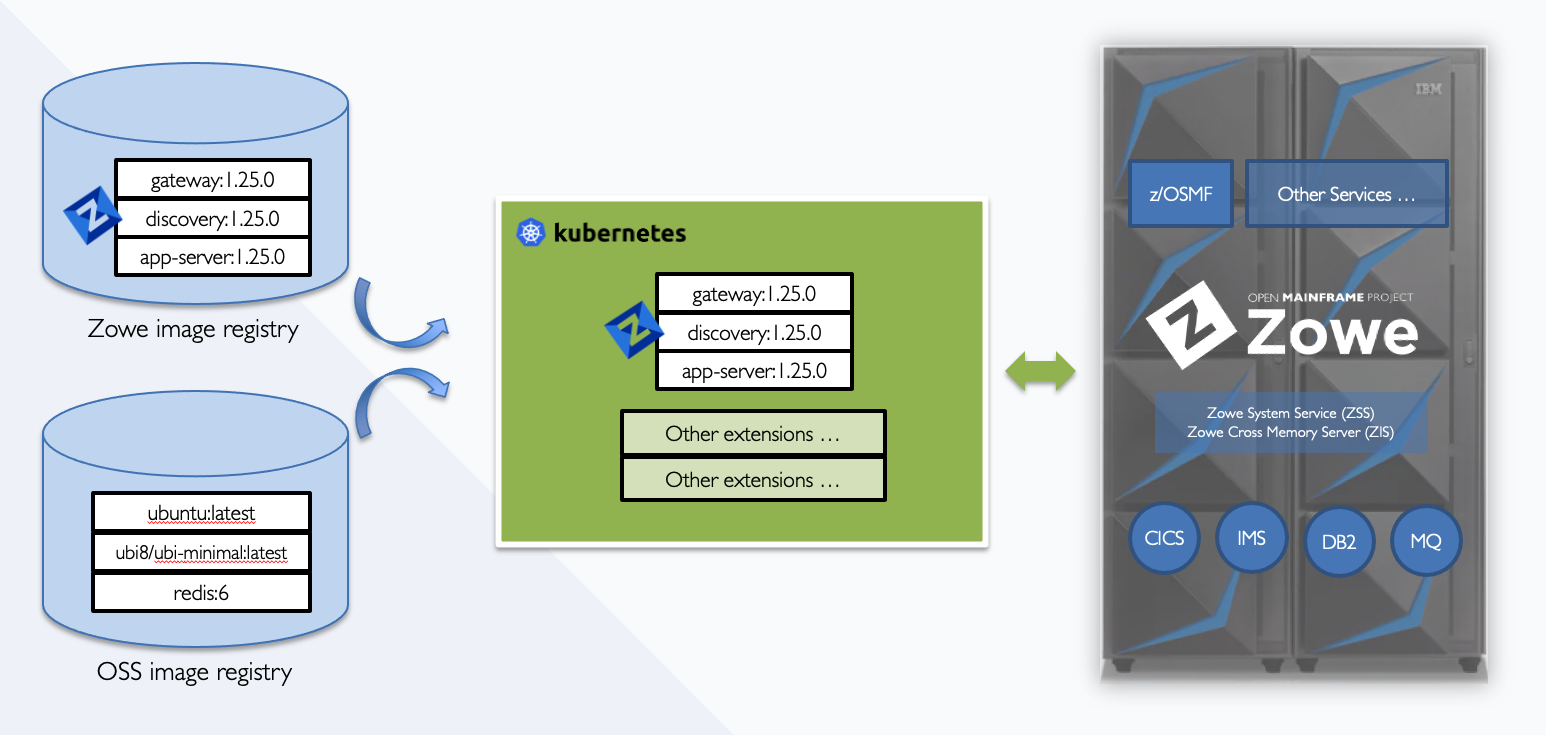
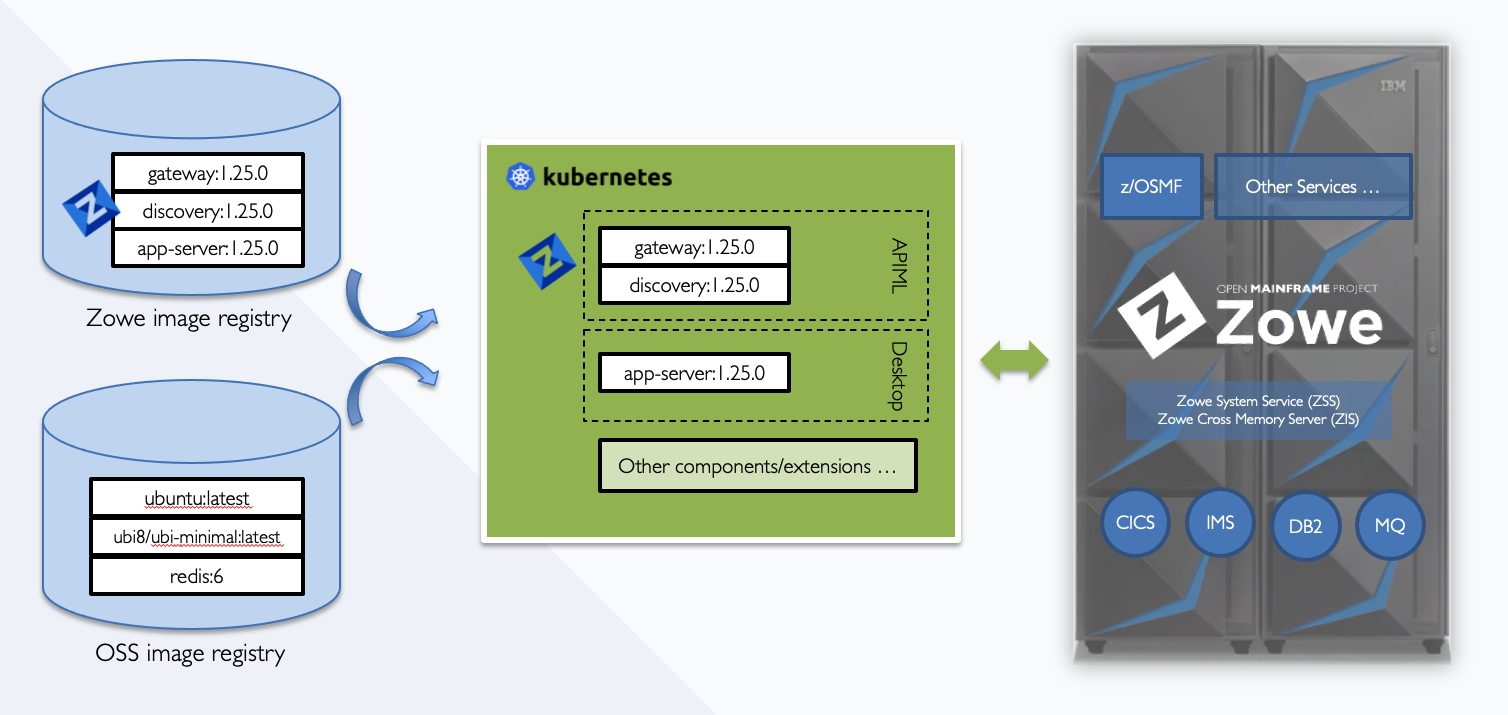
fixes based on suggestions and grammarly

diff --git a/containers/kubernetes/blog/zowe-k8s-lab.md b/containers/kubernetes/blog/zowe-k8s-lab.md
@@ -1,34 +1,34 @@
 # Tutorial to start Zowe in Kubernetes
 
-{Core} Can we run Zowe workloads off platform in a container orchestration platform like Kubernetes? With v1.25.0, the answer is yes. In this new downloadable, we provide all the necessary Kubernetes manifest files you need to stand up Zowe.
+{Core} Can we run Zowe workloads off-platform in a container orchestration platform like Kubernetes? With v1.25.0, the answer is yes. In this new downloadable, we provide all the necessary Kubernetes manifest files you need to stand up Zowe.
 
 ![zowe-kubernetes](images/zowe-k8s.png)
 
-This blog assumes you have basic knowledge of Zowe and Kubernetes, would like to take closer look on the technical details and even try out a lab exercise. If you are looking for general information about Zowe containerization, what and why, please check our other blog [Zowe Kubernetes Overview](zowe-k8s.md).
+This blog assumes you have basic knowledge of Zowe and Kubernetes, would like to take a closer look at the technical details, and even try out a lab exercise. If you are looking for general information about Zowe containerization, what and why, please check our other blog [Zowe Kubernetes Overview](zowe-k8s.md).
 
 ## Architecture view of Zowe Kubernetes deployment
 
-Comparing to deploy Zowe to z/OS system, as described in [Zowe architecture](https://docs.zowe.org/stable/getting-started/zowe-architecture), the following diagram depicts the difference in locations of Zowe components when deploying Zowe into Kubernetes cluster as opposed to running all components on a single z/OS system.
+Compared to deploying Zowe to z/OS system, as described in [Zowe architecture](https://docs.zowe.org/stable/getting-started/zowe-architecture), the following diagram depicts the difference in locations of Zowe components when deploying Zowe into Kubernetes cluster as opposed to running all components on a single z/OS system.
 
 ![zowe-architecture-k8s](images/zowe-architecture-k8s.png)
 
-- Zowe `ZSS` and Cross Memory (also known as `ZIS`) server are remaining on z/OS side to communicate with z/OS native functions. Besides that, you have choice to deploy all other components in Kubernetes.
+- Zowe System Services Server (aka `ZSS`) and Cross Memory Server (aka `ZIS`) are remaining on the z/OS side to communicate with z/OS native functions. Besides that, you have a choice to deploy all other components in Kubernetes.
 - You can deploy Zowe to Kubernetes on any platform like,
   * setup from bare metal,
   * run on [Linux on IBM Z mainframe](https://www.ibm.com/it-infrastructure/z/os/linux),
   * provision from popular cloud vendors,
   * or just want to try it out with [Docker Desktop](https://docs.docker.com/desktop/kubernetes/) or [Minikube](https://minikube.sigs.k8s.io/docs/start/).
-- All Zowe Kubernetes workloads are running on a dedicated namespace (`zowe` by default) to distinguish from other workloads in same Kubernetes cluster.
-- Zowe has it's own `ServiceAccount` to help on managing permissions.
-- Server components uses similar `instance.env` or `zowe.yaml` on z/OS, which are stored in `ConfigMap` and `Secret`, to configure and start.
-- Server components can be configured using same certificates used on z/OS components.
-- Zowe claims it's own `Persistent Volume` to share files across components.
-- Each server components are running in separated containers and can scale independently based on it's own resource consumption.
-- Components may register themselves to Discovery with their own `Pod` name within the cluster.
+- All Zowe Kubernetes workloads are running on a dedicated namespace (`zowe` by default) to distinguish from other workloads in the same Kubernetes cluster.
+- Zowe has its own `ServiceAccount` to help on managing permissions.
+- Server components use similar `instance.env` or `zowe.yaml` on z/OS, which are stored in `ConfigMap` and `Secret`, to configure and start.
+- Server components can be configured using the same certificates used on z/OS components.
+- Zowe claims its own `Persistent Volume` to share files across components.
+- Each server component is running in separated containers and can scale independently based on its own resource consumption.
+- Components may register themselves to APIML Discovery with their own `Pod` name within the cluster.
 - Zowe workloads use `zowe-launch-scripts` `initContainers` step to prepare required runtime directories.
 - Only necessary components ports are exposed outside of Kubernetes with `Service` (or in combination with `Ingress`, OpenShift `Route`).
 
-When deploying Zowe server components into container orchestration software like Kubernetes, we follows standard Kubernetes practices and the cluster can be monitored and managed with common Kubernetes administration methods.
+When deploying Zowe server components into container orchestration software like Kubernetes, we follow standard Kubernetes practices and the cluster can be monitored and managed with common Kubernetes administration methods.
 
 # Zowe Images
 
@@ -37,11 +37,11 @@ For each Zowe core component image, we provide 2x2 flavors to cover:
 - base image of latest Ubuntu and [Red Hat Universal Base Image](https://www.redhat.com/en/blog/introducing-red-hat-universal-base-image),
 - CPU architecture of `amd64` (for x86 based CPU) and `s390x` (for Linux on Z mainframe).
 
-Currently our images are shipped in `zowe-docker-release.jfrog.io` registry, and you can find all images we released from https://zowe.jfrog.io/ui/repos/tree/General/docker-release%2Fompzowe.
+Currently, our images are shipped in `zowe-docker-release.jfrog.io` registry, and you can find all images we released from https://zowe.jfrog.io/ui/repos/tree/General/docker-release%2Fompzowe.
 
 ![zowe-registry](images/zowe-registry.png)
 
-For each image we also release and update manifests to help you pick the right level of image based on your requirement. Typical image manifests we provide are:
+For each image, we also release and update manifests to help you pick the right level of image based on your requirement. Typical image manifests we provide are:
 
 - 1
 - 1-ubuntu
@@ -56,65 +56,65 @@ For each image we also release and update manifests to help you pick the right l
 - latest-ubuntu
 - latest-ubi
 
-Foe example, if you would like to automatically pick the most recent changes from v1 releases, you can use images like `zowe-docker-release.jfrog.io/ompzowe/gateway:1-ubuntu`.
+For example, if you would like to automatically pick the most recent changes from v1 releases, you can use images like `zowe-docker-release.jfrog.io/ompzowe/gateway:1-ubuntu`.
 
-These manifests covers both `amd64` and `s390x` CPU architecture, so it will work no matter you are running it in distributed environment (typically x86 based CPU), or running on Linux on Z mainframe.
+These manifests covers both `amd64` and `s390x` CPU architecture, so it will work no matter you are running it in a distributed environment (typically x86 based CPU) or running on Linux on a Z mainframe.
 
 ## In-depth details of Zowe Kubernetes deployment
 
 You can deploy Zowe to Kubernetes v1.19+ or compatible OpenShift v4.6+.
 
-Depends on you Kubernetes or OpenShift setup, some of the configurations you may need to customize for your environment, especially for Persistent Volume, Networking and your domain name to access Kubernetes and z/OS.
+Depending on your Kubernetes or OpenShift setup, some of the configurations you may need to customize for your environment, especially for Persistent Volume, Networking, and your domain name to access Kubernetes and z/OS.
 
-Here are list of example Kubernetes manifests we provide you can customize based upon.
+Here is a list of example Kubernetes manifests we provide you can customize based upon.
 
-- `zowe` `Namespace` is a good start point to isolate your workload from others in same cluster.
-- A `ServiceAccount` `zowe-sa` is defined to help you customize permission setup.
-- Examples of defining `zowe-workspace-pvc` `PersistentVolumeClaim`. This persistent volume helps Zowe to share data between components. For example, one Desktop plugin may need to share it's runtime to AppServer, or a static registered component may need to share it's registration file to Discovery service. To define a `PersistentVolumeClaim`, you need to find out appropriate `StorageClass` you can use across all possible Kubernetes nodes and support `ReadWriteMany` access mode.
+- `zowe` `Namespace` is a good start point to isolate your workload from others in the same cluster.
+- A `ServiceAccount` `zowe-sa` is defined to help you customize the permission setup.
+- Examples of defining `zowe-workspace-pvc` `PersistentVolumeClaim`. This persistent volume helps Zowe to share data between components. For example, one Desktop plugin may need to share its runtime to AppServer, or a static registered component may need to share its registration file to Discovery service. To define a `PersistentVolumeClaim`, you need to find out the appropriate `StorageClass` you can use across all possible Kubernetes nodes and support `ReadWriteMany` access mode.
 - Example of `zowe-config` (and optional `zowe-certificates-cm`) `ConfigMap` and `zowe-certificates-secret` `Secret`. These configurations are similar to the `instance.env` or `zowe.yaml` you are using to start Zowe on z/OS. Zowe also ships a utility tools `<instance>/bin/utils/convert-fork8s.sh` to help you migrate the configurations and certificates from z/OS to Kubernetes.
-- Example definitions of Zowe API Catalog, Discovery and Gateway `Service`-s. `gateway-service` is the main service must be exposed outside of Kubernetes and serves as entrypoint of Zowe. We also provide sample `Ingress` which may be needed in some setup. This networking definitions are very attached to your Kubernetes flavor like how your load balancer, Ingress controller are setup, what are the domain and port you would like to use, etc.
-- One `discovery` `StatefulSet` and several `Deployments` matches all other Zowe core components.
+- Example definitions of Zowe APIML API Catalog, Discovery and Gateway `Service`-s. `gateway-service` is the main service that must be exposed outside of Kubernetes and serves as entry point of Zowe. We also provide sample `Ingress` which may be needed in some setup. These networking definitions are very attached to your Kubernetes flavor like how your load balancer, Ingress controller is set up, what are the domain and port you would like to use, etc.
+- One `discovery` `StatefulSet` and several `Deployments` match all other Zowe core components.
 - A `cleanup-static-definitions` `CronJob` is predefined to help Zowe cleanup abandoned static definitions.
-- Example `PodDisruptionBudget`s can help you maintain availability of services.
+- Example `PodDisruptionBudget`s can help you maintain the availability of services.
 - Example `HorizontalPodAutoscaler`s can help you scale Zowe based on CPU consumption of your workload.
 
-We try to decouple Zowe runtime scripts from component runtime code so they can build and release independently. Zowe component, as well as extension images have no requirement to contain Zowe runtime scripts. The Zowe context will be prepared when we start the component inside Zowe cluster.
+We try to decouple Zowe runtime scripts from component runtime code so they can build and release independently. Zowe components, as well as extension images, have no requirement to contain Zowe runtime scripts. The Zowe context will be prepared when we start the component inside a Zowe cluster.
 
 ![zowe-component-runtime](images/zowe-component-runtime.png)
 
-This picture illustrates directory changes when a component container is running in Zowe cluster.
+This picture illustrates directory changes when a component container is running in a Zowe cluster.
 
 ## Security Consideration
 
-Security is always top priority of running Zowe on any platform. Zowe follows Kubernetes common best practices and also Kubernetes Hardening Guidance from National Security Agency and Cybersecurity and Infrastructure Security Agency.
+Security is always a top priority of running Zowe on any platform. Zowe follows Kubernetes common best practices and also Kubernetes Hardening Guidance from National Security Agency and Cybersecurity and Infrastructure Security Agency.
 
 - Zowe conformant images must define `zowe` user and group other than using `root` user.
-- Zowe prohibits to start component container with root user.
-- Zowe example Deployments has predefined `securityContext` to limit runtime user, group and file system group to `zowe`.
-- Zowe launch script is started as PID 1 and will handle SIGTERM signal properly by propagating to all child processes.
-- By default Zowe example Deployments also enabled `readOnlyRootFilesystem` `securityContext` to protect root file system from overwriting.
-- Zowe core components are regular scanned with security tools.
+- Zowe prohibits starting component container with root user.
+- Zowe example Deployments has predefined `securityContext` to limit runtime user, group, and file system group to `zowe`.
+- Zowe launch script is started as PID 1 and will handle the SIGTERM signal properly by propagating to all child processes.
+- By default Zowe example Deployments also enabled `readOnlyRootFilesystem` `securityContext` to protect the root file system from overwriting.
+- Zowe core components are regularly scanned with security tools.
 - Zowe workloads are isolated with Namespace and ServiceAccount.
 - Zowe configurations and certificates can be securely stored in `Secret`, or potentially Vault to protect from unexpected access.
-- You can still enable strict `VERIFY_CERTIFICATES` option to achieve best security like running Zowe on z/OS.
+- You can still enable the strict `VERIFY_CERTIFICATES` option to achieve the best security like running Zowe on z/OS.
 
 ## Exercise deployment to Google Cloud
 
-With above knowledge, let's try to deploy Zowe into Google Cloud Kubernetes Engine. Hopefully after this section, you may have better understanding how Zowe can be deployed and what are necessary customization may be required.
+With the above knowledge, let's try to deploy Zowe into Google Cloud Kubernetes Engine. Hopefully, after this section, you may have a better understanding of how Zowe can be deployed and what are necessary customization may be required.
 
-You will need a Google Cloud account, proper billing setup, Google Cloud CLI and `kubectl` installed on your local computer. This step may cost you around $1 or $2 depends on how long you let your cluster runs.
+You will need a Google Cloud account, proper billing setup, Google Cloud CLI, and `kubectl` installed on your local computer. This step may cost you around $1 or $2 depends on how long you let your cluster runs.
 
 1. Visit https://console.cloud.google.com/ and create your own project.
 
-2. Choose Kubernetes Engine - Clusters from GCP menus. If you never use this feature before, GCP may ask you to enable the feature before continue.
+2. Choose Kubernetes Engine - Clusters from GCP menus. If you have never used this feature before, GCP may ask you to enable the feature before continuing.
 
 3. Click on "Create" from the interface. ![gcp-create-k8s](images/gcp-create-k8s.png)
 
 4. Select either "GKE Standard" or "GKE Autopilot". I will choose "GKE Standard" for this demo.
 
-5. Provide a name for your cluster, customize zone close to you, then click on "CREATE" button. Then let's wait for your cluster is ready. This may usually take 2-4 minutes.
+5. Provide a name for your cluster, customize a zone close to you, then click on "CREATE" button. Then let's wait for your cluster to be ready. This may usually take 2-4 minutes.
 
-6. Select the new cluster you just created, click on "CONNECT" button. This interface provide commands you need to prepare Kubernetes config context on your local computer. ![gcp-connect](images/gcp-connect.png). Copy the command and run on your local computer Terminal.
+6. Select the new cluster you just created, click on "CONNECT" button. This interface provides commands you need to prepare Kubernetes config context on your local computer. ![gcp-connect](images/gcp-connect.png). Copy the command and run it on your local computer Terminal.
 
 7. Now we can start to follow Zowe documentation to deploy Zowe. First, let's create Namespace and ServiceAccount:
   ```
@@ -125,7 +125,7 @@ You will need a Google Cloud account, proper billing setup, Google Cloud CLI and
 
 8. The default storage class created by GKE doesn't support `ReadWriteMany` access mode. There are several ways to prepare your persistent volume for Zowe, here we will proceed with `Filestore`. Check this guidance https://cloud.google.com/filestore/docs/accessing-fileshares for more details.
 
-  - 8a). Visit https://console.cloud.google.com/filestore/instances to create an instance. In this example, I will call the `Instance ID` as `zowe-workspace-filestore`, and `File share name` as `zowe_workspace`. All other options I choose default, but customized to the zone I picked for my cluster. Click on "CREATE" and wait for your Filestore to be ready. This may usually take several minutes.
+  - 8a). Visit https://console.cloud.google.com/filestore/instances to create an instance. In this example, I will call the `Instance ID` as `zowe-workspace-filestore`, and `File share name` as `zowe_workspace`. All other options I choose to default, but customized to the zone I picked for my cluster. Click on "CREATE" and wait for your Filestore to be ready. This may usually take several minutes.
 
   - 8b). Check your newly created Filestore instance, pay attention to the information showing in this section "NFS mount point":
 
@@ -133,7 +133,7 @@ You will need a Google Cloud account, proper billing setup, Google Cloud CLI and
   10.34.56.78:/zowe_workspace
   ```
 
-  The IP and share name will be needed in next step.
+  The IP and share name will be needed in the next step.
 
   - 8c). Prepare this YAML file and save as `samples/google-cloud/workspace-pvc.yaml`.
 
@@ -189,7 +189,7 @@ You will need a Google Cloud account, proper billing setup, Google Cloud CLI and
   zowe-workspace-pvc   Bound    zowe-workspace-pv   10G        RWX                           3m4s
   ```
 
-  If you see `STATUS` is `Bound`, you can move to next step.
+  If you see `STATUS` is `Bound`, you can move to the next step.
 
 9. Define Zowe services by running this command. We choose `LoadBalancer` service in this demo:
 
@@ -199,9 +199,9 @@ You will need a Google Cloud account, proper billing setup, Google Cloud CLI and
   service/gateway-service created
   ```
 
-  From GKE console, check `Services & Ingress` and wait for all services status are OK and Endpoints are available like this ![gcp-services](images/gcp-services.png).
+  From the GKE console, check `Services & Ingress` and wait for all services status are OK and Endpoints are available like this ![gcp-services](images/gcp-services.png).
 
-10. Prepare ConfigMaps and Secret. Now login to your z/OS system, switch to the instance directory where you started Zowe ZSS server, and run this command:
+10. Prepare ConfigMaps and Secret. Now login to your z/OS system, switch to the instance directory where you started the Zowe ZSS server, and run this command:
 
   ```
   cd <instance-dir>
@@ -210,7 +210,7 @@ You will need a Google Cloud account, proper billing setup, Google Cloud CLI and
 
   Please note the IP showing above is the `gateway-service` external IP showing in step 9.
 
-  Follow the instructions showing on the screen and copy all the content of ConfigMaps and Secret and save to your local computer. Now apply the configs to your cluster by running:
+  Follow the instructions shown on the screen and copy all the content of ConfigMaps and Secret and save it to your local computer. Now apply the configs to your cluster by running:
 
   ```
   $ kubectl apply -f my-configs.yaml 
@@ -236,17 +236,17 @@ You will need a Google Cloud account, proper billing setup, Google Cloud CLI and
   deployment.apps/jobs-api created
   ```
 
-  Check `Workloads` menu from GKE console, wait until all workloads status are OK. This may take about 3-5 minutes. ![gcp-workloads](images/gcp-workloads.png).
+  Check `Workloads` menu from the GKE console, wait until all workloads' statuses are OK. This may take about 3-5 minutes. ![gcp-workloads](images/gcp-workloads.png).
 
-12. Congratulations, now you can access your Zowe instance running in the Kubernetes by accessing the `gateway-service` external IP. In my case, it's https://35.192.15.148:7554/. Once all services are ready, you should see 3 green check marks.
+12. Congratulations, now you can access your Zowe instance running in the Kubernetes by accessing the `gateway-service` external IP. In my case, it's https://35.192.15.148:7554/. Once all services are ready, you should see 3 green checkmarks.
 
 13. You can use your common Kubernetes operations practice. For example, examine logs from Zowe containers ![gcp-logging](images/gcp-logging.png).
 
-14. Once you done your testing, you can delete the cluster you created, as well as the Filestore instance.
+14. Once you have done your testing, you can delete the cluster you created, as well as the Filestore instance.
 
 ## Conclusion
 
-If you follow this introduction and successfully deployed your Zowe workload to your Kubernetes, now it's time to explorer the functions provided by Zowe and high availability, high scalability, ease of maintenance inherited from Kubernetes.
+If you follow this introduction and successfully deployed your Zowe workload to your Kubernetes, now it's time to explorer the functions provided by Zowe and the high availability, high scalability, ease of maintenance inherited from Kubernetes.
 
 ---
 

diff --git a/containers/kubernetes/blog/zowe-k8s.md b/containers/kubernetes/blog/zowe-k8s.md
@@ -1,6 +1,6 @@
 # Running Zowe in Kubernetes
 
-{Core} Can we run Zowe workloads off platform in a container orchestration platform like Kubernetes? With v1.25.0, the answer is yes. In this new downloadable, we provide all the necessary Kubernetes manifest files you need to stand up Zowe.
+{Core} Can we run Zowe workloads off-platform in a container orchestration platform like Kubernetes? With v1.25.0, the answer is yes. In this new downloadable, we provide all the necessary Kubernetes manifest files you need to stand up Zowe.
 
 ![zowe-kubernetes](images/zowe-k8s.png)
 
@@ -10,13 +10,13 @@ Containers are **lightweight**, **executable** application components that combi
 
 ![containers](images/negative-space-colorful-shipping-containers-frank-mckenna.jpg)
 
-Kubernetes is a **container orchestration platform** for scheduling and automating the containerized applications deployment, networking, scalability, and availability. If you want to know more about Kubernetes, [kubernetes.io](https://kubernetes.io/docs/home/) will be the best place to start.
+Kubernetes is a **container orchestration platform** for scheduling and automating containerized applications deployment, networking, scalability, and availability. If you want to know more about Kubernetes, [kubernetes.io](https://kubernetes.io/docs/home/) will be the best place to start.
 
 ## Why containerization?
 
 Containerization in general and Kubernetes provide many benefits like,
 
-- **Portability**: A container is able to run uniformly and consistently across any platform or cloud.
+- **Portability**: A container can run uniformly and consistently across any platform or cloud.
 - **Fault isolation**: Each containerized application is isolated and operates independently of others.
 - **Efficiency**: Software running in containerized environments shares the machine’s OS kernel, and application layers within a container can be shared across containers.
 - **Security**: The isolation of applications as containers inherently prevents the invasion of malicious code from affecting other containers or the host system.
@@ -24,43 +24,44 @@ Containerization in general and Kubernetes provide many benefits like,
   * **Deployment**: Deploy containers and keep them running in a desired state.
   * **Rollouts**: Kubernetes lets you initiate, pause, resume, or roll back rollouts to update your application.
   * **Service discovery**: Kubernetes can expose a service to external or within the cluster.
-  * **Storage provisioning**: Kubernetes can mount local or cloud storage for application.
+  * **Storage provisioning**: Kubernetes can mount local or cloud storage for an application.
   * **Load balancing**: Kubernetes can distribute the workload based on CPU utilization or custom metrics.
-  * **Autoscaling**: Kubernetes autoscaling can spin up or drain containers based on realtime workload.
+  * **Autoscaling**: Kubernetes autoscaling can spin up or drain containers based on real-time workload.
   * **Self-healing for high availability**: Kubernetes can restart or replace failed containers to prevent downtime.
 
 ## Overview of Zowe Kubernetes deployment
 
-The following diagram shows how different Zowe components works together in a containerization deployment.
+The following diagram shows how different Zowe components work together in a containerization deployment.
 
 ![zowe-k8s-overview](images/zowe-k8s-overview.png)
 
 - Zowe System Service (aka `ZSS`) and Zowe Cross Memory Server (aka `ZIS`) are running on z/OS side to communicate with z/OS native functions.
-- Other Zowe core components can run in containers, or in a container orchestration platform like Kubernetes.
-- Zowe containerization conformant extensions can also run in container and work with other Zowe components or other z/OS services.
+- Other Zowe core components can run in containers, or a container orchestration platform like Kubernetes.
+- Zowe containerization conformant extension can also run in a container and work with other Zowe components or other z/OS services.
 
-Like the benefits we introduced in previous section, when you run Zowe in Kubernetes, you automatically inherit all ease of management convenience and even more.
+Like the benefits we introduced in the previous section, when you run Zowe in Kubernetes, you automatically inherit all ease of management convenience and even more.
 
-With Zowe Gateway routing, you component may not even be aware of where the other services are located. Whether they are running on z/OS or running in another container, Zowe Gateway and Discovery cover the differences and route the traffic to the target for you.
+With Zowe APIML Gateway routing, your component may not even be aware of where the other services are located. Whether they are running on z/OS or running in another container, Zowe APIML Gateway and Discovery cover the differences and route the traffic to the target for you.
 
-Zowe core components and your extension running in Kubernetes will remain maximum availability. If any of the component fails, Kubernetes will bring up a new component and server your service consumers.
+Zowe core components and your extension running in Kubernetes will remain maximum availability. If any of the components fail, Kubernetes will bring up a new component and serve your service consumers.
 
-If you like to let Zowe Gateway to handle more workloads, you can simply scale up Gateway or even let Kubernetes automatically handle this for you. You almost have zero efforts to scale your component as long as you have enough resources can be used.
+If you like to let Zowe APIML Gateway handle more workloads, you can simply scale up Gateway or even let Kubernetes automatically handle this for you. You almost have zero efforts to scale your component as long as you have enough resources that can be used.
 
-When you want to upgrade Zowe, Kubernetes standard `rollout` function can help you to upgrade all components with zero downtime.
+When you want to upgrade Zowe, the Kubernetes standard `rollout` function can help you to upgrade all components with zero downtime.
 
 ## Containerize your Zowe extension
 
-Zowe also provides necessary information to help extenders to containerize their extension and run inside Zowe cluster. We introduce new [Zowe Conformance Criteria Related to Containerization](https://github.com/zowe/zowe-install-packaging/blob/master/containers/conformance.md) and all Zowe core components are the first adopters of these conformance criteria. From this conformance documentation, you can find information of,
+Zowe also provides necessary information to help extenders to containerize their extension and run inside a Zowe cluster. We introduce new [Zowe Conformance Criteria Related to Containerization](https://github.com/zowe/zowe-install-packaging/blob/master/containers/conformance.md) and all Zowe core components are the first adopters of these conformance criteria. From this conformance documentation, you can find information of,
 
-- what are the requirements to setup your base image.
-- how to copy your code into the extension image.
-- what are the requirements to start the extension container and how `zowe-launch-scripts` image can help you to prepare your extension to run in Zowe context.
-- how to label, build, test and release your extension image.
+- How to package z/OS agnostic and z/OS dependent extensions to make the best use of containers.
+- What are the requirements to set up your base image.
+- How to copy your code into the extension image.
+- What are the requirements to start the extension container and how `zowe-launch-scripts` image can help you to prepare your extension to run in Zowe context.
+- How to label, build, test and release your extension image.
 
 ## Conclusion
 
-Hope this blog provides you a comprehensive view about Zowe containerization, the purpose and how you may benefit from this. If you have any questions, concerns and suggestions on the new solution, please don't hesitate to contact us.
+Hope this blog provides you with a comprehensive view of Zowe containerization, the purpose, and how you may benefit from this. If you have any questions, concerns, and suggestions on the new solution, please don't hesitate to contact us.
 
 ---
 
